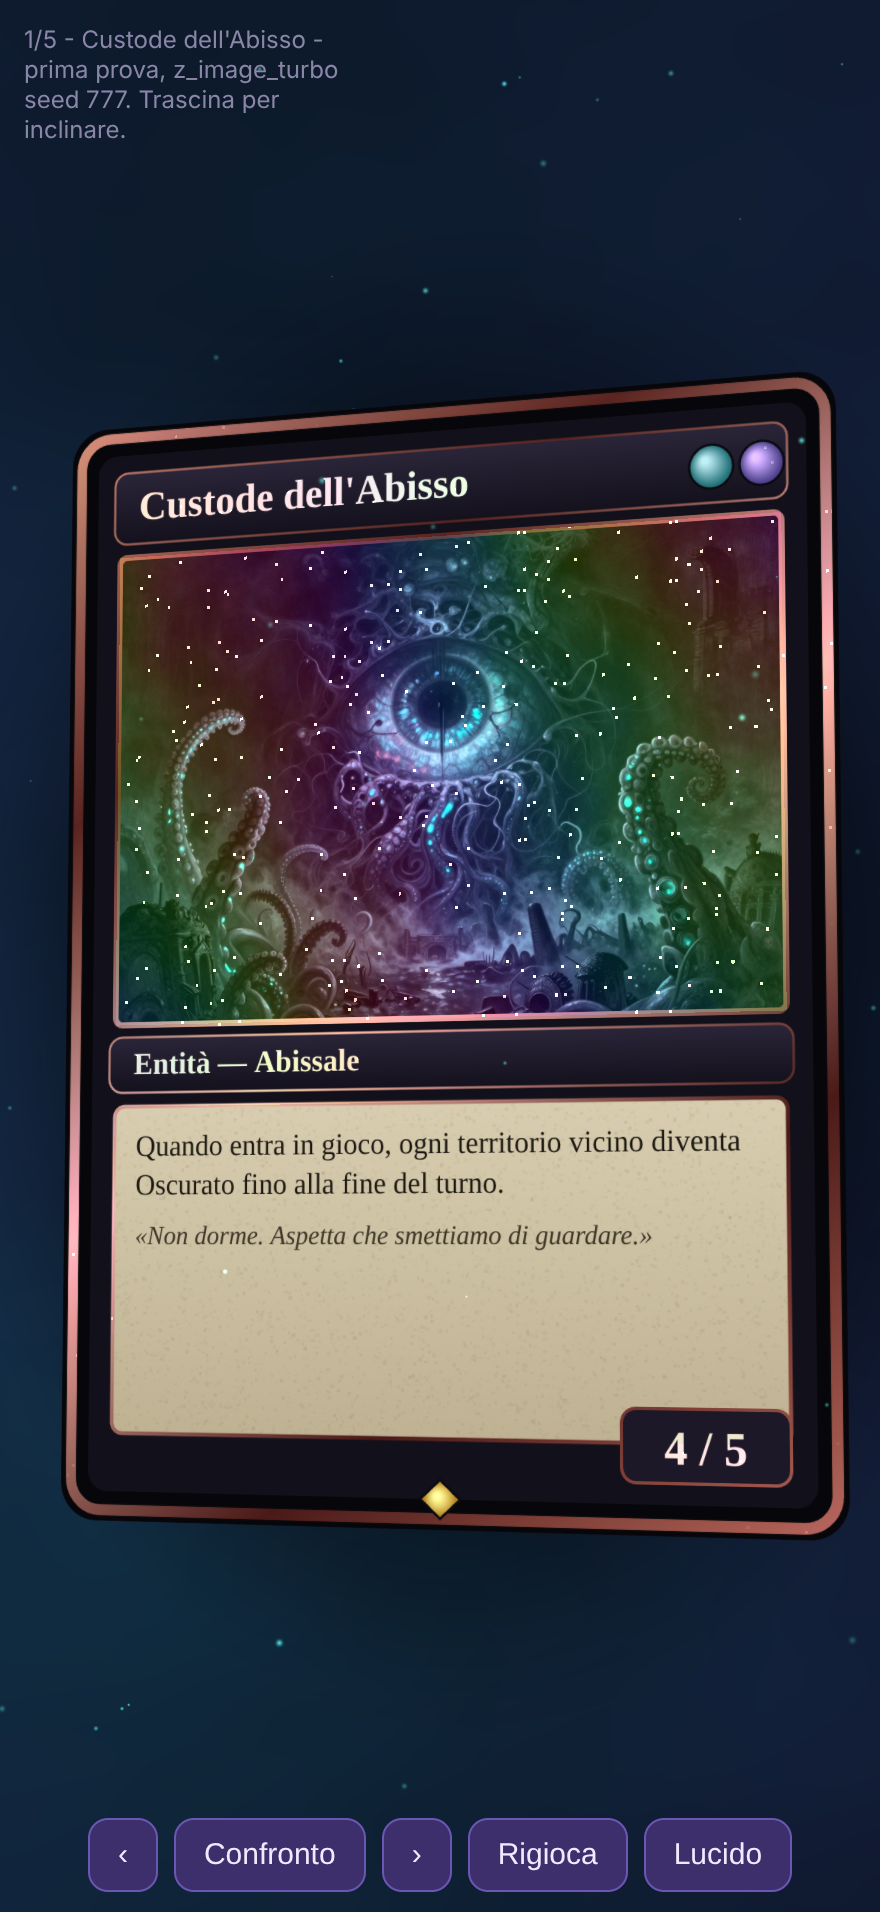
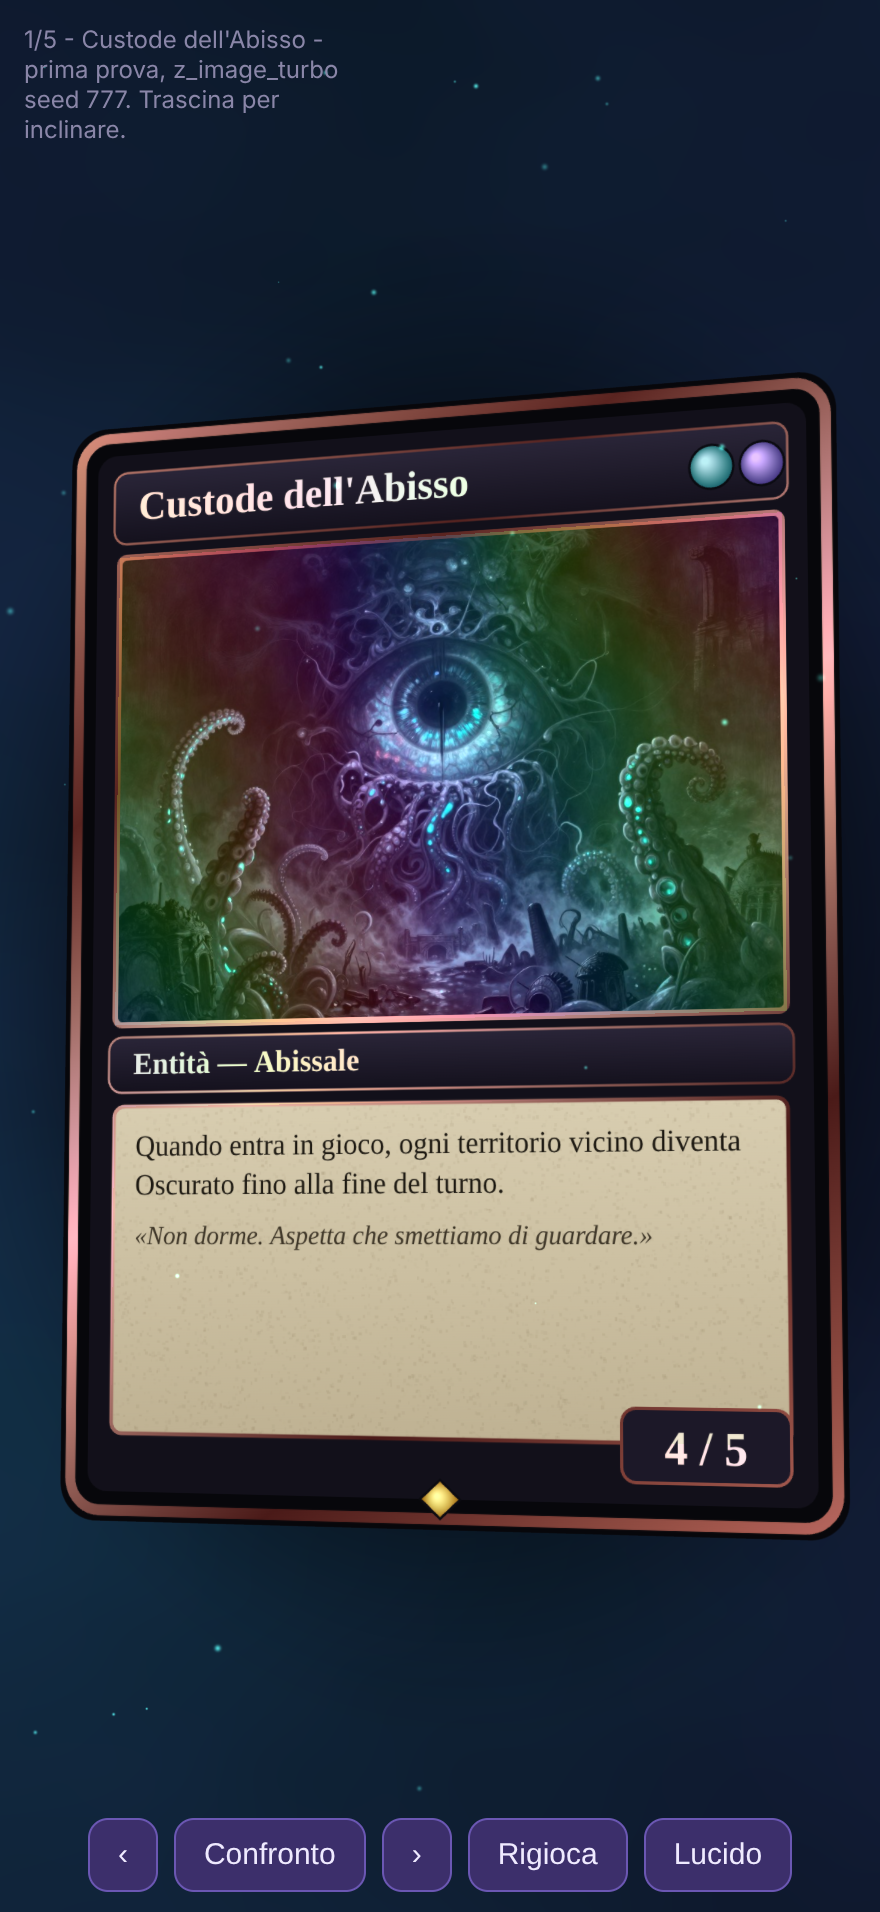
Concept grafico: tolte le scintille (restano arcobaleno e riflesso), su richiesta di Matteo
Claude-Session: https://claude.ai/code/session_01NNQCU8e4FStFbjtE5gB9iG

diff --git a/game/prove/concept-grafico-web/src/main.ts b/game/prove/concept-grafico-web/src/main.ts
@@ -336,15 +336,6 @@ const fragmentCarta = `
       float t = vUv.x*1.4 + vUv.y*0.9 + uTilt.x*1.3 - uTilt.y*0.9 + fbm(vUv*5.0 + uTime*0.03)*0.35;
       vec3 foil = arcobaleno(t);
       col += foil * maschera * 0.24 * uFoil;
-      // scintille: poche, morbide, ognuna grande qualche pixel (una griglia fitta sul telefono sembra rumore)
-      vec2 griglia = vec2(70.0, 98.0);
-      vec2 cella = floor(vUv*griglia);
-      vec2 dentro = fract(vUv*griglia) - 0.5;
-      float s = hash(cella);
-      vec2 centro = (vec2(hash(cella+7.1), hash(cella+3.7)) - 0.5) * 0.5;
-      float punto = 1.0 - smoothstep(0.08, 0.34, length(dentro - centro));
-      float acceso = step(0.975, s) * punto * (0.5 + 0.5*sin(uTime*1.6 + s*60.0 + uTilt.x*6.0 + uTilt.y*5.0));
-      col += vec3(1.0,0.95,0.85) * acceso * maschera * uFoil * 0.9;
       // riflesso lucido: una fascia di luce che scorre con l'inclinazione
       float fascia = (vUv.x + vUv.y*0.6) - (0.5 + uTilt.x*0.9 - uTilt.y*0.5);
       float g = exp(-fascia*fascia*40.0);
